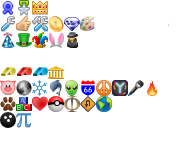
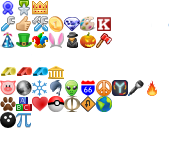
Add Halloween flair.

Changed region(s): [[0.4545, 0.0938, 0.6534, 0.3125]]

diff --git a/tpflair/flair.py b/tpflair/flair.py
@@ -14,6 +14,8 @@ FLAIR_DATA = [
     ("Fools", "How Foolish", "-32px -32px"),
     ("Easter", "Hare Today, Goon Tomorrow", "-48px -32px"),
     ("Unfortunate", "UnfortunateSniper Hacks TagPro", "-64px -32px"),
+    ("Pumpkin", "So Very Scary", "-80px -32px"),
+    ("Axe", "Daryl Would Be Proud", "-96px -32px"),
     ("Bacon", "Bacon (6&#176;)", "0px -80px"),
     ("Moon", "Moon (11&#176;)", "-16px -80px"),
     ("Freezing", "Freezing (32&#176;)", "-32px -80px"),
